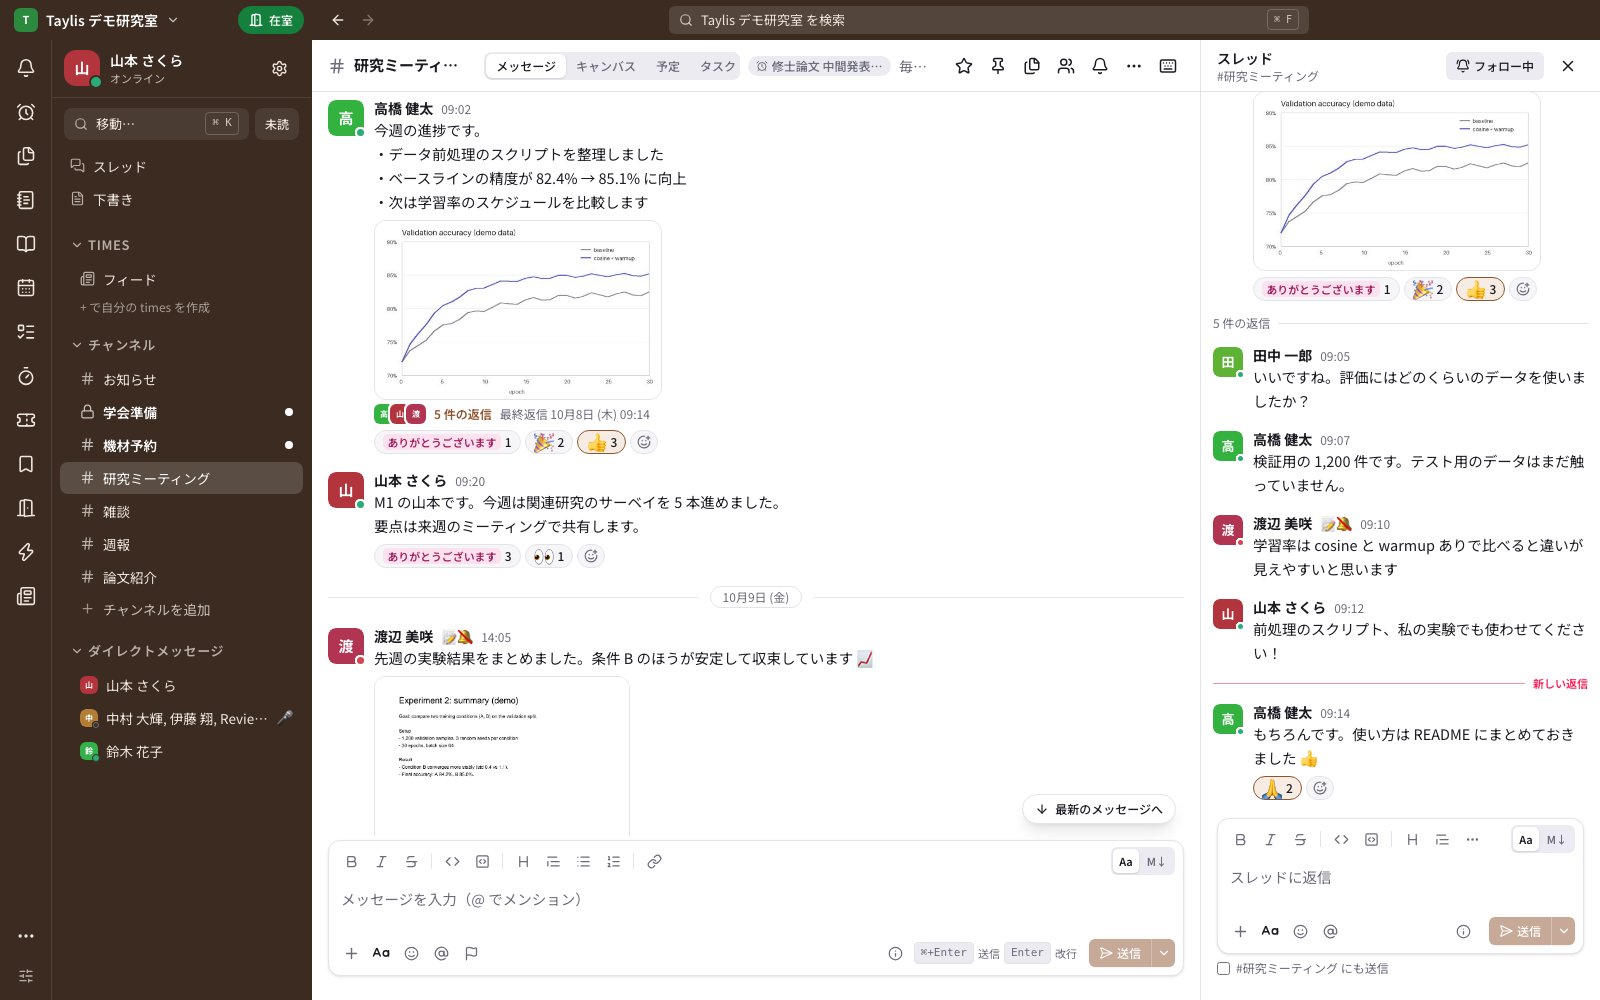
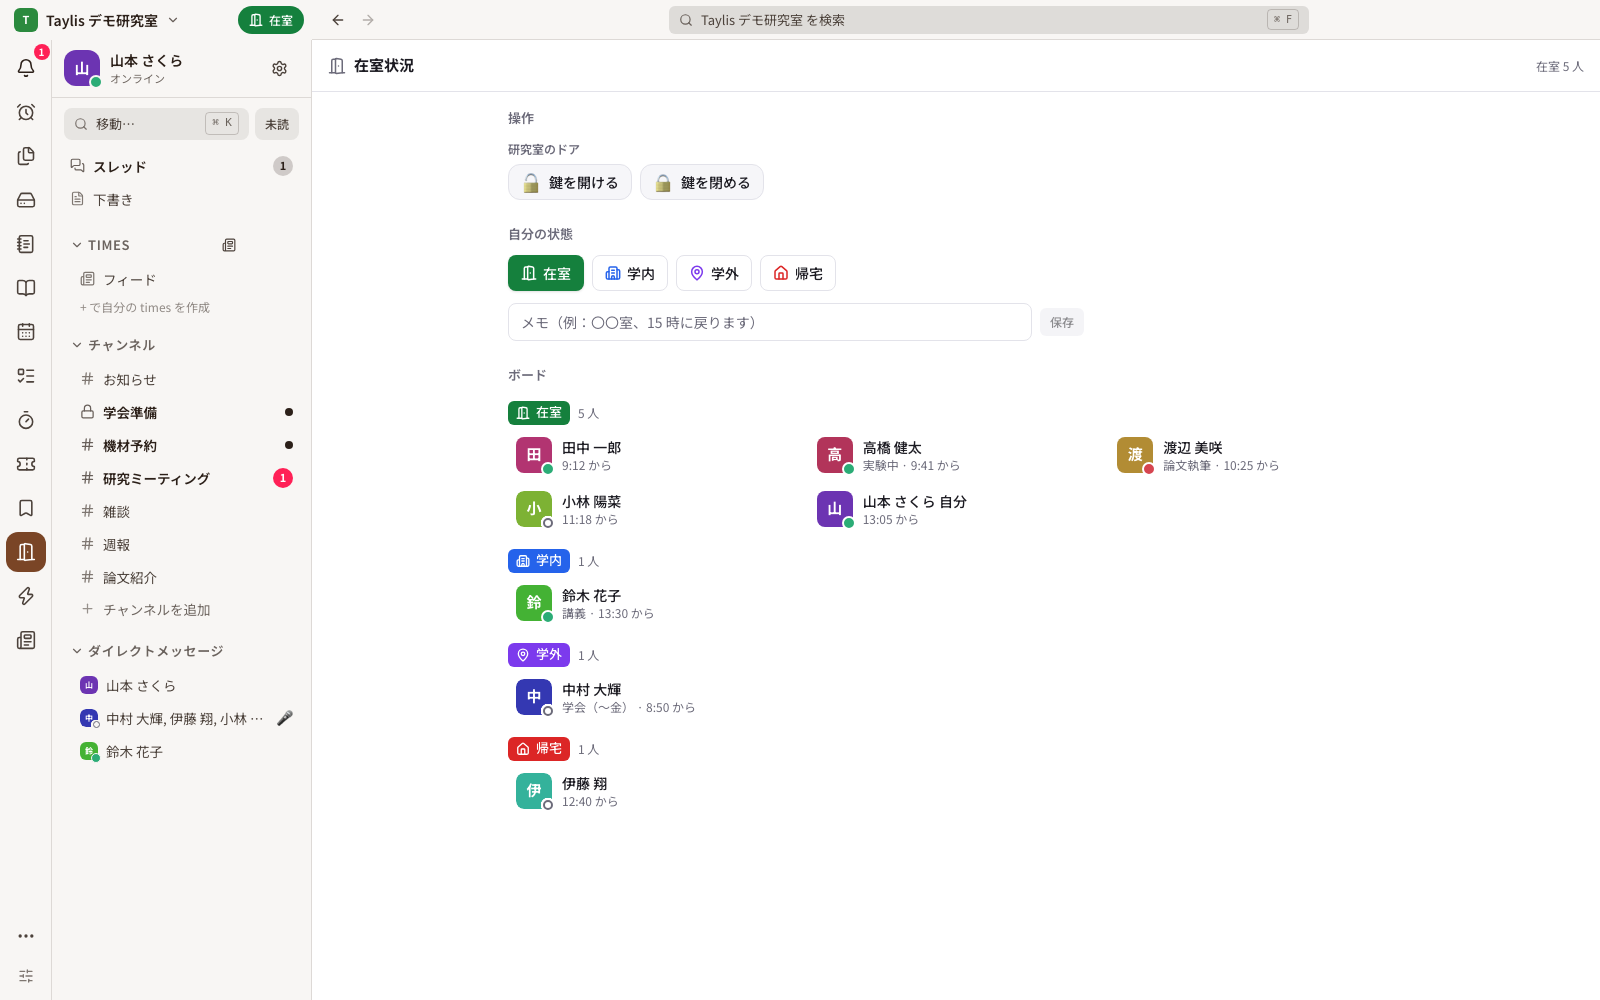
README: the attendance board and the Home Screen widgets up top; a place no longer leaves the conversation's row selected
The README's first picture was a channel with a thread beside it on a dark sidebar, which reads like any team chat.
It now shows what a lab sees first: the attendance board on the desktop app with the light sidebar, next to the
iPhone Home Screen widgets (the widgets column leaves the table below, so the picture is not there twice).
docs-shots.mjs takes the new picture.

Desktop / Web: while a place (スレッド, 在室状況…) covers the conversation, its sidebar row is no longer painted as
selected, the rule my Times in the rail already had; going back paints it again (MOBILE_UI.md §18).

diff --git a/apps/desktop/tests/historyNavigation.test.tsx b/apps/desktop/tests/historyNavigation.test.tsx
@@ -167,6 +167,22 @@ it("the ← → buttons go back and forward between conversations and views; a n
   w.engine.stop();
 });
 
+it("a place covering the conversation takes the selection from its sidebar row; going back gives it back", async () => {
+  const { w } = await setup();
+  await openRow(w, "d");
+  const row = () => sidebar().getByRole("button", { name: /^d$/ });
+  expect(row().className).toContain("bg-sidebar-active");
+  fireEvent.click(place("スレッド"));
+  await settle(w);
+  expect(viewActive("スレッド")).toBe(true);
+  expect(row().className).not.toContain("bg-sidebar-active");
+  fireEvent.click(backButton());
+  await settle(w);
+  expect(title()).toBe("d");
+  expect(row().className).toContain("bg-sidebar-active");
+  w.engine.stop();
+});
+
 it("macOS: ⌘[ / ⌘] anywhere, ⌘← / ⌘→ only outside a text field, nothing under a dialog", async () => {
   const { w } = await setup();
   await openRow(w, "d");

diff --git a/apps/desktop/src/ui/Sidebar.tsx b/apps/desktop/src/ui/Sidebar.tsx
@@ -294,7 +294,8 @@ export function Sidebar({ controller, channels, currentId, unreadOnly, onToggleU
     // M24: someone else's times with new posts but no mention: not bold, a faint dot (SYNC_PROTOCOL.md §10.5).
     const quietUnread = !unread && channel.id !== currentId && channel.unreadCount > 0 && isQuietChannel(channel, me?.id ?? null);
     const badge = badgeCount(channel);
-    const active = channel.id === currentId;
+    // Like my Times in the rail: the conversation is not the selected row while a place (スレッド, 在室状況…) covers it.
+    const active = channel.id === currentId && !pageOpen;
     // A DM's avatar is the other person's; my own notes (a DM with only me) show mine.
     const other = isDmChannel(channel) ? ((channel.dm_user_ids ?? []).find((id) => id !== me?.id) ?? me?.id) : undefined;
     // MOBILE_UI.md §19: in a new tab (its menu, a middle click, ⌘-click).

diff --git a/README.md b/README.md
@@ -18,8 +18,8 @@ keep the old name.)
 > requests are welcome, but there is no promise of support, fixes, or a roadmap. See [CONTRIBUTING.md](CONTRIBUTING.md).
 
 <p>
-  <img src="docs/images/desktop.png" alt="Taylis desktop app: a channel with a thread open (demo data)" width="75%">
-  <img src="docs/images/iphone.png" alt="Taylis on iPhone (demo data)" width="21.5%">
+  <img src="docs/images/desktop.png" alt="Taylis desktop app: the attendance board, who is in the lab, on campus, off campus or gone home (demo data)" width="75%">
+  <img src="docs/images/lab/widgets.jpg" alt="Taylis widgets on an iPhone Home Screen: today's events and deadlines, unread messages, attendance (demo data)" width="21.5%">
 </p>
 
 ## Features
@@ -39,9 +39,9 @@ For research labs:
 - A roster with years and supervisors (mentions such as `@m1`)
 - Home Screen widgets (iOS and Android) for attendance, unread messages and today's events and deadlines
 
-| Attendance board | Weekly reports | Times (work logs) | Acknowledgements | Home Screen widgets |
-| :---: | :---: | :---: | :---: | :---: |
-| <img src="docs/images/lab/attendance.jpg" alt="Attendance board: who is in the lab, on campus, off campus or gone home (demo data)" width="160"> | <img src="docs/images/lab/weekly-report.jpg" alt="A weekly-report thread with the submission count and deadline (demo data)" width="160"> | <img src="docs/images/lab/times.jpg" alt="The Times feed: students' work logs in one list (demo data)" width="160"> | <img src="docs/images/lab/acknowledge.jpg" alt="Announcements with an acknowledge button and the count of members who confirmed (demo data)" width="160"> | <img src="docs/images/lab/widgets.jpg" alt="Home Screen widgets: today's events and deadlines, unread messages, attendance (demo data)" width="160"> |
+| Attendance board | Weekly reports | Times (work logs) | Acknowledgements |
+| :---: | :---: | :---: | :---: |
+| <img src="docs/images/lab/attendance.jpg" alt="Attendance board: who is in the lab, on campus, off campus or gone home (demo data)" width="160"> | <img src="docs/images/lab/weekly-report.jpg" alt="A weekly-report thread with the submission count and deadline (demo data)" width="160"> | <img src="docs/images/lab/times.jpg" alt="The Times feed: students' work logs in one list (demo data)" width="160"> | <img src="docs/images/lab/acknowledge.jpg" alt="Announcements with an acknowledge button and the count of members who confirmed (demo data)" width="160"> |
 
 Chat and workspace:
 

diff --git a/docs/MOBILE_UI.md b/docs/MOBILE_UI.md
@@ -990,6 +990,8 @@ iOS のアプリを iPhone と iPad の両方で動かす (`TARGETED_DEVICE_FAMI
   アイコン列 / サイドバー / 表示しない を選ぶ。変えるとすぐ保存。説明の 1 行、「アイコン列を隠す」、「並べ替え…」。
 - **サイドバーの行**：⌘K（移動）と「未読」の行のすぐ下、セクションの上。前のサイドバーの項目の行と同じ見た目（アイコン 15 px、
   名前、右にバッジか数、未読があれば太字、開いている場所は塗り）。
+- **場所を開いている間の会話の行**（2026-11-09）：場所（スレッド・在室状況など）が真ん中を覆っている間は、直前の会話の行を塗らない
+  （「自分の Times」と同じ。前は場所と会話の行の 2 か所が塗られていた）。「戻る」で会話に戻れば、また塗る。
 - 設定 → 表示 →「サイドバーの項目」：一番上に「アイコン列を使う」スイッチ。項目ごとの行に置き場所の選択（アイコン列 / サイドバー /
   表示しない）とドラッグ・↑ / ↓ の並べ替え。表示のスイッチ（スマホのタイルの表示）はパソコンの設定から外した。「Times フィード」と
   「自分の Times」は置き場所だけ（順は項目の後ろ）。「元に戻す」は順を既定に戻し（スマホで隠したタイルは隠れたまま）、置き場所も既定に
